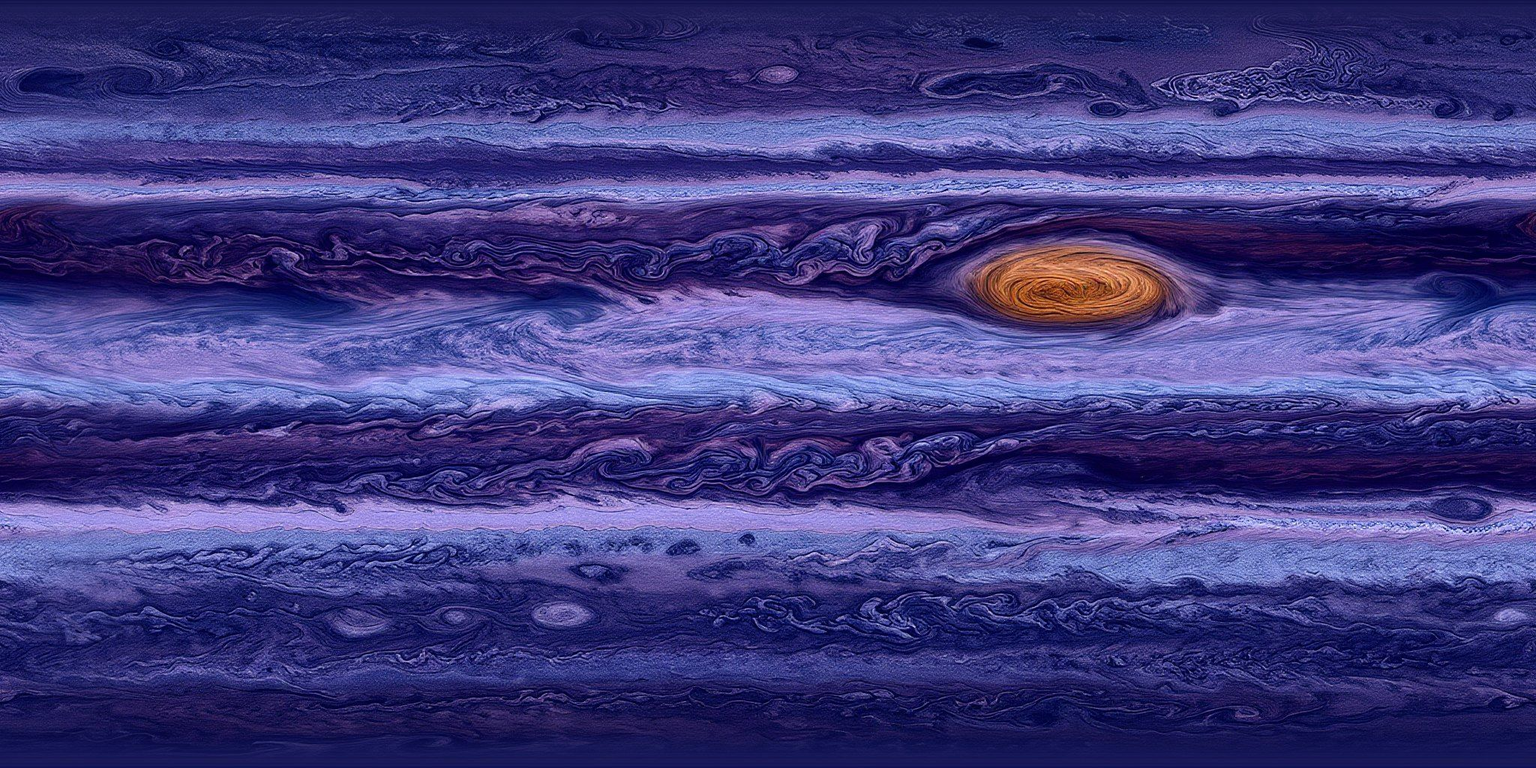
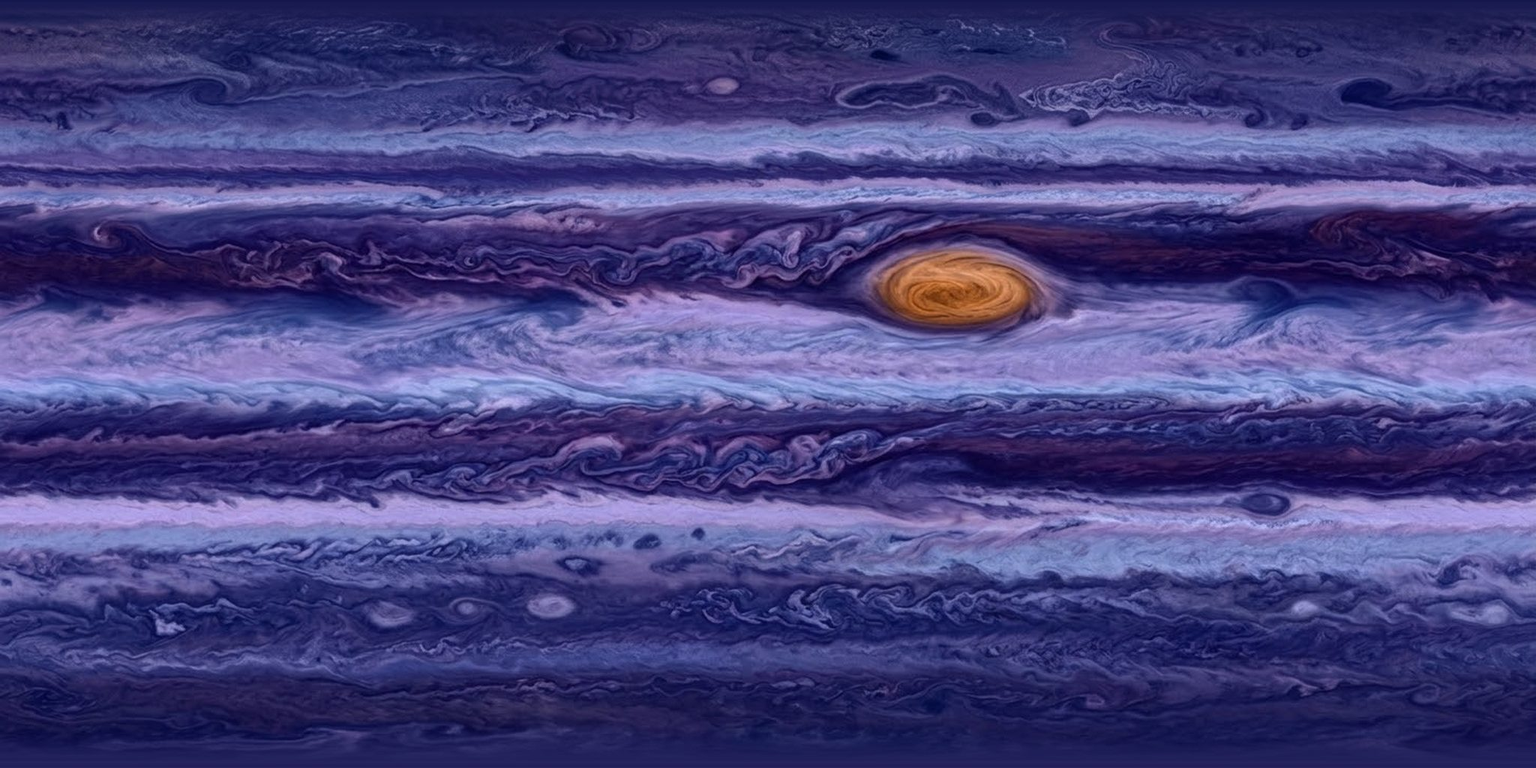
Space: the owner's new planet map, and no stitch where it wraps
- Swaps in the new Gemini surface map. It's a true 2:1 wrap-around map whose
  edges already meet, so it's used as is (resized to 2048×1024 so the GPU can
  make its smaller copies; poles softened slightly).
- Fixes a thin dotted line down the planet where the map's edges meet: the
  texture coordinate jumps from 1 to 0 there and the GPU read its blurriest
  copy. The shader now picks, per pixel block, whichever of two equivalent
  coordinates doesn't jump (needs OES_standard_derivatives, enabled before
  compiling; without it the shader behaves as before).

Claude-Session: https://claude.ai/code/session_01FYnsf5qZnPuWPKnjzuH2cq

diff --git a/src/themes/space/shaders.js b/src/themes/space/shaders.js
@@ -12,6 +12,9 @@
 // Units: q is measured in planet radii from its centre, y up.
 
 export const PLANET = `
+#ifdef GL_OES_standard_derivatives
+#extension GL_OES_standard_derivatives : enable
+#endif
 #ifdef GL_FRAGMENT_PRECISION_HIGH
 precision highp float;
 #else
@@ -95,7 +98,17 @@ void main(){
   // axial tilt for the surface, then a slow turn
   float tl=-.32;vec3 m=vec3(cos(tl)*n.x-sin(tl)*n.y,sin(tl)*n.x+cos(tl)*n.y,n.z);
   float lon=atan(m.x,m.z)+T*.03;float lat=asin(clamp(m.y,-1.,1.));
-  vec3 alb=TX>.5?texture2D(MAP,vec2(fract(lon/(2.*PI)),.5-lat/PI)).rgb:bands(lon,lat);
+  // Where the map's edges meet, u jumps from 1 back to 0 and the GPU would
+  // read its blurriest copy there, leaving a stitch. Pick whichever of two
+  // coordinates has no jump in this pixel's neighbourhood (both read the
+  // same texels, since the map repeats).
+  float u1=fract(lon/(2.*PI)),u2=fract(lon/(2.*PI)+.5)-.5;
+#ifdef GL_OES_standard_derivatives
+  float u=fwidth(u1)<=fwidth(u2)+1e-5?u1:u2;
+#else
+  float u=u1;
+#endif
+  vec3 alb=TX>.5?texture2D(MAP,vec2(u,.5-lat/PI)).rgb:bands(lon,lat);
   float nl=dot(n,L);
   float dif=smoothstep(-.12,.4,nl);
   vec3 col=alb*(mix(.26,.03,NT)+dif*mix(.9,1.08,NT));

diff --git a/src/themes/space/SpaceDial.jsx b/src/themes/space/SpaceDial.jsx
@@ -21,8 +21,8 @@ const RF = 0.3; // planet radius as a share of the box's shorter side (orbit at 
 const RR = 1.42;
 const MAX_MOONS = 6;
 
-// The planet's surface: a Gemini map, edges blended so it wraps without a
-// seam. Until it loads the shader draws a stand-in surface.
+// The planet's surface: a Gemini map whose left and right edges meet, so it
+// wraps without a seam. Until it loads the shader draws a stand-in surface.
 const PLANET_MAP = planetMap;
 
 const toMinutes = (hm) => { const [h, m] = hm.split(":").map(Number); return h * 60 + m; };
@@ -89,7 +89,7 @@ export default function SpaceDial({ todayTodos, isAssigned, onOpen }) {
   useEffect(() => {
     const canvas = canvasRef.current;
     const scene = createScene(canvas, PLANET,
-      ["C", "RAD", "T", "LV", "NT", "SURGE", "NOW", "TX", "MK", "MAP"], { alpha: true });
+      ["C", "RAD", "T", "LV", "NT", "SURGE", "NOW", "TX", "MK", "MAP"], { alpha: true, extensions: ["OES_standard_derivatives"] });
     if (!scene) { setNoGL(true); return; }
     const { gl, U } = scene;
     gl.uniform1f(U.NT, prefersDarkDial ? 1 : 0);

diff --git a/src/themes/water/gl.js b/src/themes/water/gl.js
@@ -10,9 +10,10 @@ export const reducedMotion =
 // draw it (WebGL off, or the shader won't compile), so callers can fall back.
 // With `alpha`, the shader writes premultiplied colour and the page shows
 // through wherever it leaves alpha at 0.
-export function createScene(canvas, fragmentSource, uniformNames, { alpha = false } = {}) {
+export function createScene(canvas, fragmentSource, uniformNames, { alpha = false, extensions = [] } = {}) {
   const gl = canvas.getContext("webgl", { antialias: false, alpha, premultipliedAlpha: true, powerPreference: "high-performance" });
   if (!gl) return null;
+  extensions.forEach((e) => gl.getExtension(e)); // before compiling, so the shader can use them
   try {
     const compile = (type, src) => {
       const s = gl.createShader(type);

diff --git a/REDESIGN.md b/REDESIGN.md
@@ -71,7 +71,7 @@ giant on a transparent canvas: the sun comes round it as the day gets done
 (crescent to full), its orbit is the progress ring with a chip for the time,
 reminders are moons at their hour that break orbit when ticked, and
 finishing the day brings a sunrise flare. Its surface is a Gemini map
-(`planet.jpg`, edges blended so it wraps without a seam). Nightly shows a
+(`planet.jpg`, a seamless wrap-around map). Nightly shows a
 Gemini Milky Way over an observatory, alive: twinkling stars, a breathing
 dome light, a shooting star now and then and one on every tick.
 
